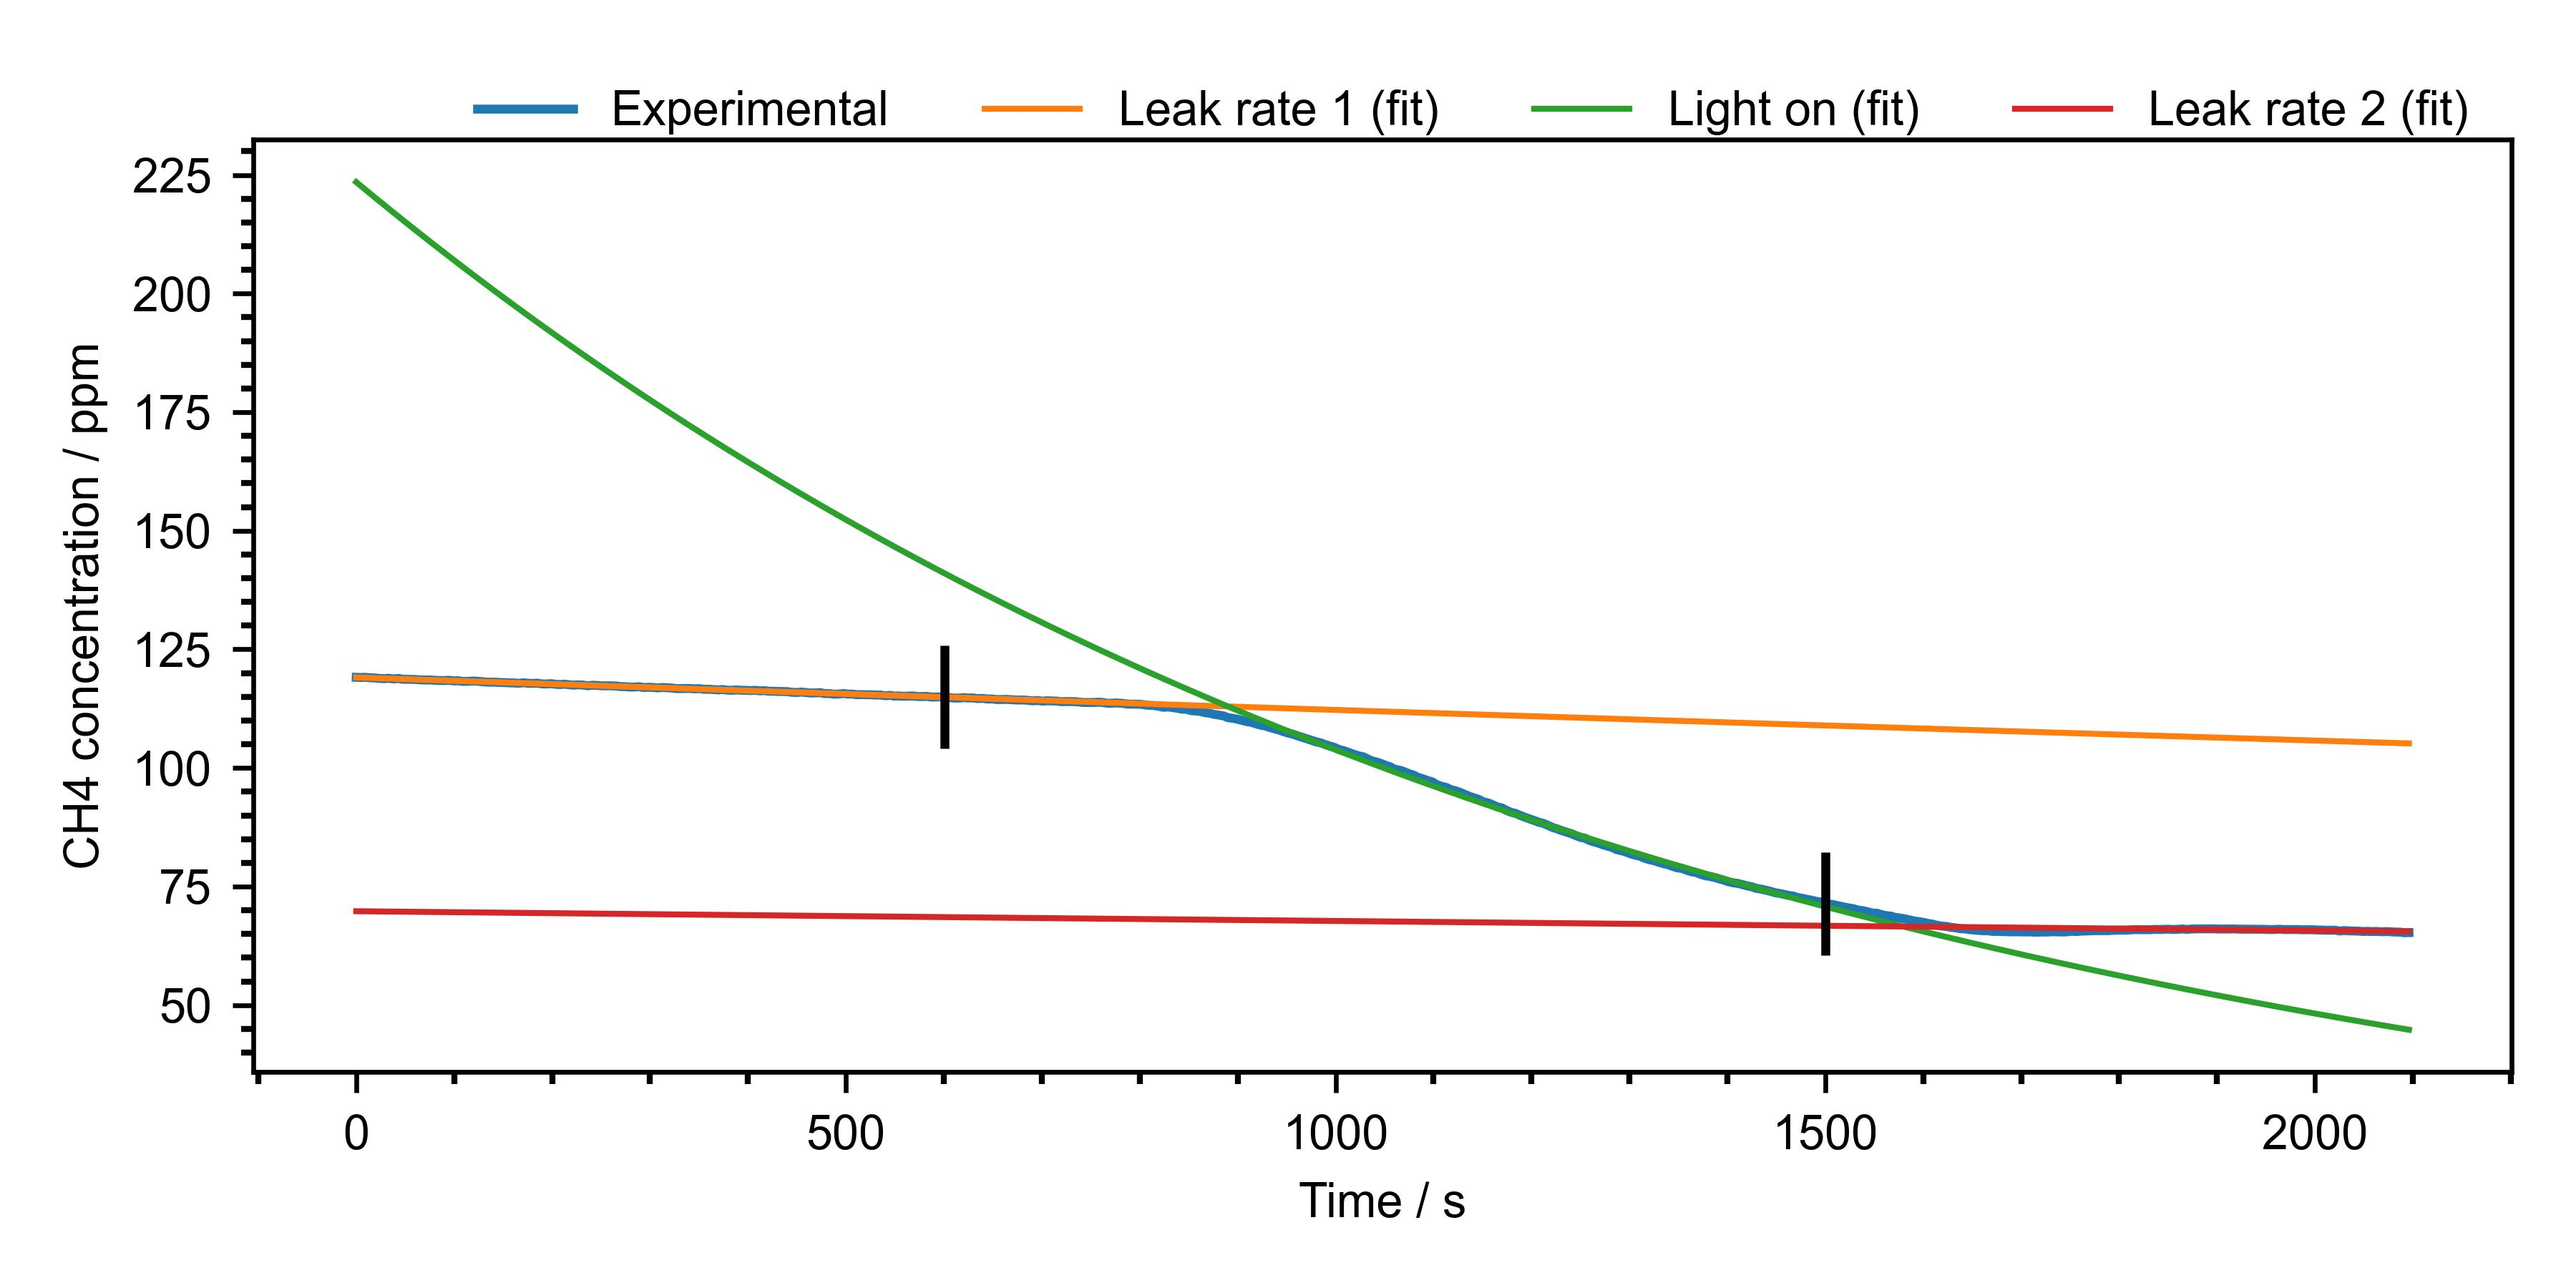
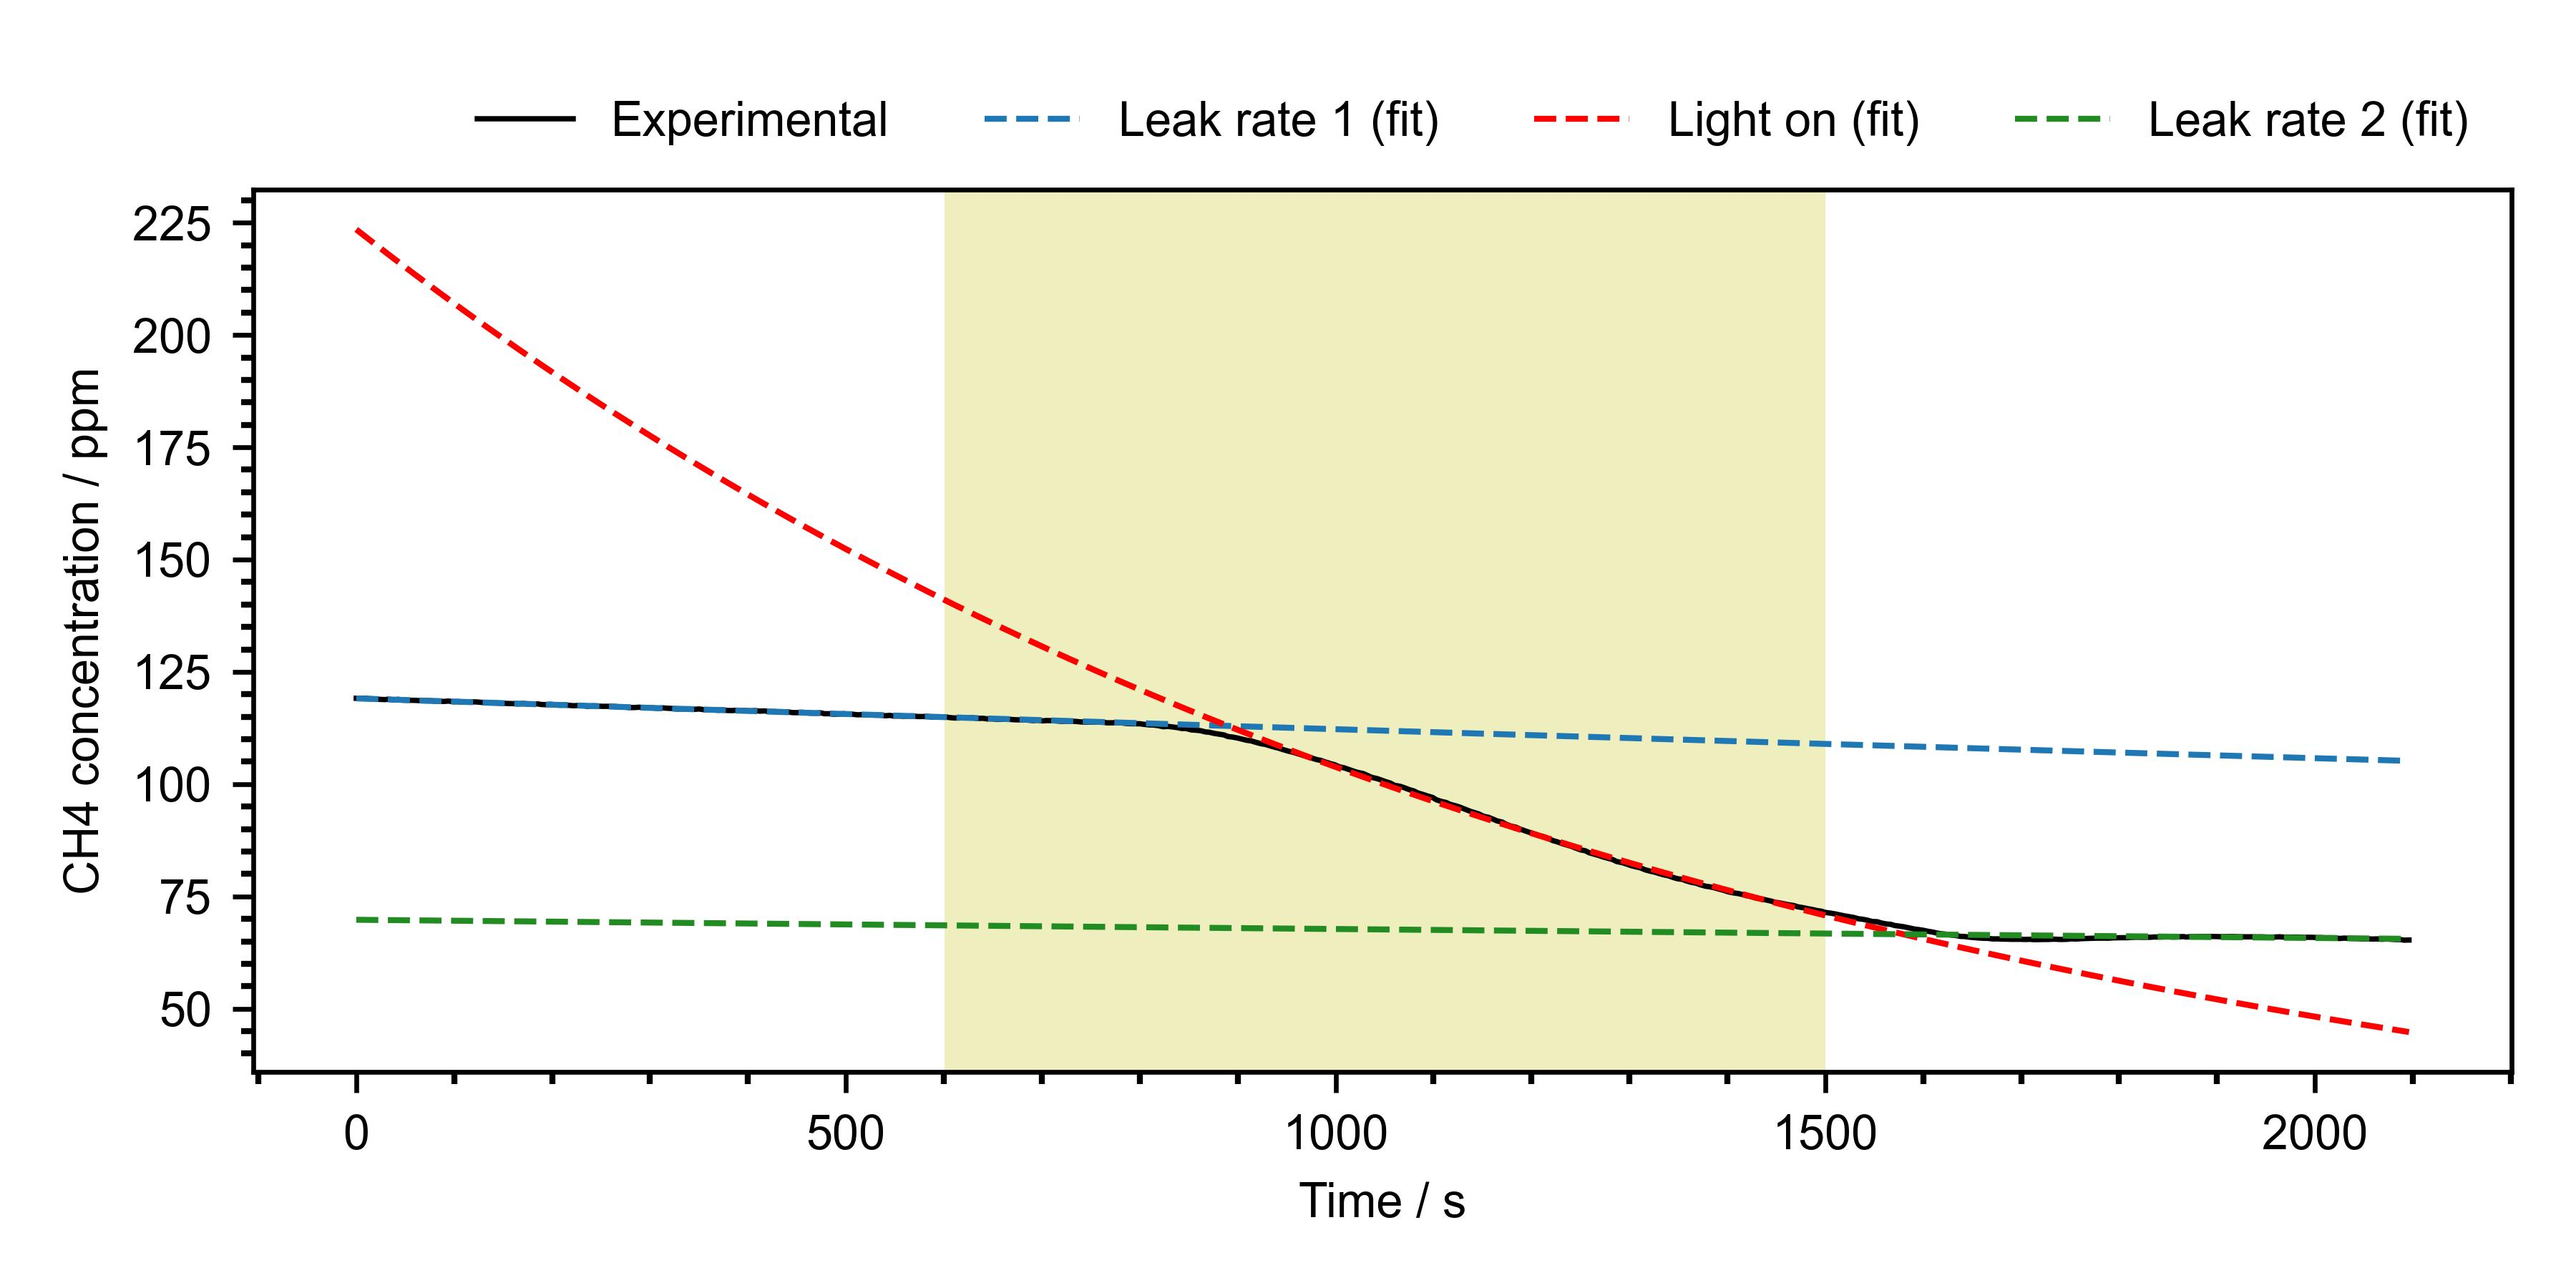
update

diff --git a/Functions.py b/Functions.py
@@ -3,7 +3,6 @@ plt.rcParams['font.family'] = 'Arial'
 import matplotlib as mpl
 import pandas as pd
 import numpy as np
-import seaborn as sns
 from iminuit import Minuit
 from scipy import stats
 from sympy import *
@@ -68,6 +67,29 @@ def read_data_picarro(parent_path, dates):
         data_dict[date] = new_df
         
     return data_dict
+
+def get_treatment_dict(data_dict, time_stamps, new_keys):
+    pd.options.mode.chained_assignment = None 
+    
+    idx_array = np.zeros((len(data_dict.keys()), 6))
+    for i, dict_key in enumerate(data_dict.keys()):
+        for j, ts in enumerate(time_stamps[i]):
+            for k, time in enumerate(data_dict[dict_key]['TIME']):
+                if ts in time:
+                    idx_array[i][j] += k
+    print(idx_array)
+
+    new_dict = {}
+    for i, key in enumerate(data_dict.keys()):
+        for j, idx in enumerate(idx_array[i][::2]):
+            new_df = data_dict[key].iloc[int(idx):int(idx_array[i][j*2+1]), :]
+            new_df.reset_index(drop=True, inplace=True)
+            new_df['Minutes'] = new_df['Seconds'] / 60
+            new_dict[new_keys[i][j]] = new_df
+
+        for new_key in new_keys[i]:
+            new_dict[new_key]['Seconds'] = new_dict[new_key]['Seconds'] - data_dict[key]['Seconds'][idx_array[i][0]]
+    return new_dict
 
 def dict_for_treatment(data_dict, idx_array, new_keys):
     new_dict = {}
@@ -140,7 +162,7 @@ def fit_exp(data_dict, a_guess, b_guess):
         array_ndf[i] = Ndof_fit
         array_Prob[i] = Prob_fit
 
-        print(f"{key}  Fit: a={a_fit:6.6f}+-{sigma_a_fit:5.8f}  b={b_fit:5.3f}+-{sigma_b_fit:5.3f}  p={Prob_fit:6.6f}")
+        print(f"{key}  Fit: tau={a_fit:6.6f}+-{sigma_a_fit:5.8f}  c_0={b_fit:5.3f}+-{sigma_b_fit:5.3f}  p={Prob_fit:6.6f}")
     
     return array_a, array_b, array_ea, array_eb, array_Chi2, array_ndf, array_Prob
 
@@ -176,14 +198,14 @@ def plot_full_exp(ax, df, a, b, idx, lamp_interval):
     y_lamp = b[1] * np.exp(a[1] * x)
     y_leak2 = b[2] * np.exp(a[2] * x)
 
-    ax.plot(x, df['HR_12CH4'][idx[0]:idx[1]])
-    ax.plot(x, y_leak1, lw = 1)
-    ax.plot(x, y_lamp, lw = 1)
-    ax.plot(x, y_leak2, lw = 1)
+    ax.plot(x, df['HR_12CH4'][idx[0]:idx[1]], lw = 0.9, color = 'k')
+    ax.plot(x, y_leak1, lw = 1, color = 'tab:blue', ls = '--')
+    ax.plot(x, y_lamp, lw = 1, color = 'red', ls = '--')
+    ax.plot(x, y_leak2, lw = 1, color = 'forestgreen', ls = '--')
 
-    ax.scatter(df['Seconds'][lamp_interval[0]] - df['Seconds'][idx[0]], df['HR_12CH4'][lamp_interval[0]], marker = '|', color = 'k', s = 300, zorder = 10)
-    ax.scatter(df['Seconds'][lamp_interval[1]] - df['Seconds'][idx[0]], df['HR_12CH4'][lamp_interval[1]], marker = '|', color = 'k', s = 300, zorder = 10)
-
+    ax.axvspan(df['Seconds'][lamp_interval[0]] - df['Seconds'][idx[0]], 
+               df['Seconds'][lamp_interval[1]] - df['Seconds'][idx[0]], color='y', alpha=0.25, lw=0)
+    
     # ax.set(xlabel = 'Time / s', ylabel = 'CH4 concentration / ppm')
     ax.set_xlabel('Time / s', fontsize = 8)
     ax.set_ylabel('CH4 concentration / ppm', fontsize = 8)
